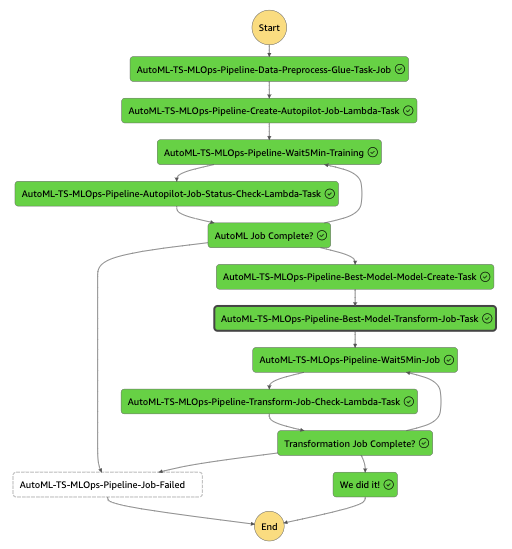
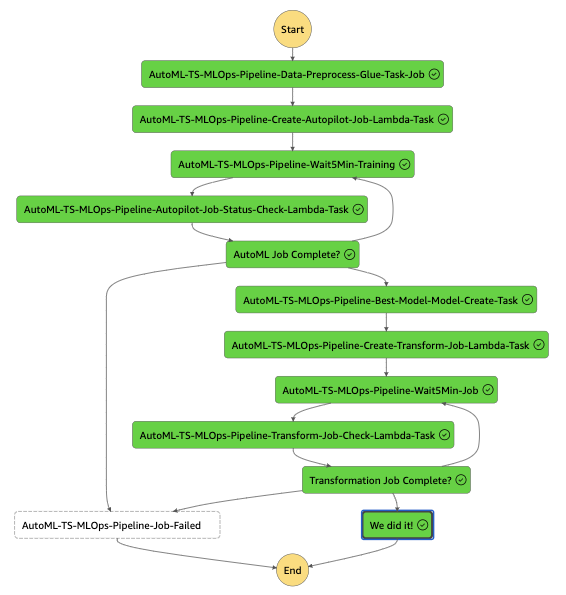
Final revision, removing unneccessary part, updating README

Changed region(s): [[0.0312, 0.0, 0.9688, 0.9909]]

diff --git a/lib/construct/state-machine.ts b/lib/construct/state-machine.ts
@@ -103,22 +103,13 @@ export class StateMachine extends Construct {
     
     // Waiting 5m before checking Autopilot Job Status
     const wait5minAfterTraining = new sfn.Wait(this, 'AutoML-TS-MLOps-Pipeline-Wait5Min-Training', {
-        time: sfn.WaitTime.duration(cdk.Duration.seconds(30))
+        time: sfn.WaitTime.duration(cdk.Duration.minutes(5))
     });
     
     // Waiting 5m before checking Autopilot Job Status
     const wait5minAfterJob = new sfn.Wait(this, 'AutoML-TS-MLOps-Pipeline-Wait5Min-Job', {
-        time: sfn.WaitTime.duration(cdk.Duration.seconds(30))
+        time: sfn.WaitTime.duration(cdk.Duration.minutes(5))
     });
-    
-    // Finish State Machine if job failed
-    const jobFailed = new sfn.Fail(this, 'AutoML-TS-MLOps-Pipeline-Job-Failed', {
-      cause: 'Autopilot MLOps Pipeline Job Failed',
-      error: 'Autopilot Train Job returned FAILED',
-    });
-    
-    // Temporary, for testing only
-    const success = new sfn.Succeed(this, 'We did it!');
     
     // Create a model from the Best trained model from AutoML
     const bestModel = new SageMakerConstruct(this, 'AutoML-TS-MLOps-Pipeline-Best-Model', {
@@ -138,6 +129,14 @@ export class StateMachine extends Construct {
        }
     });
     
+    // Finish State Machine if job failed
+    const jobFailed = new sfn.Fail(this, 'AutoML-TS-MLOps-Pipeline-Job-Failed', {
+      cause: 'Autopilot MLOps Pipeline Job Failed',
+      error: 'Autopilot Train Job returned FAILED',
+    });
+    
+    // Final Success State
+    const success = new sfn.Succeed(this, 'We did it!');
     
     // State Machine Definition
     const definition = preprocess.task

diff --git a/lib/construct/sagemaker.ts b/lib/construct/sagemaker.ts
@@ -1,10 +1,8 @@
 import {Construct} from 'constructs';
-import { Size } from 'aws-cdk-lib';
 import * as iam from 'aws-cdk-lib/aws-iam';
 import * as s3 from 'aws-cdk-lib/aws-s3';
 import * as sfn from 'aws-cdk-lib/aws-stepfunctions';
 import * as sfn_tasks from 'aws-cdk-lib/aws-stepfunctions-tasks';
-import * as ec2 from 'aws-cdk-lib/aws-ec2';
 
 export interface SageMakerConstructProps {
     taskName: string,

diff --git a/README.md b/README.md
@@ -50,7 +50,8 @@ Implemented in Lambda Function with Step Functions loop process. Step Functions 
 Implemented as direct call of SageMaker APIs from Step Functions task to create an AI Model using the best performing trained model from SageMaker Autopilot Training.
 
 ### Batch Transform Job
-Implemented as direct call of SageMaker APIs from Step Functions task to create a Batch Transform Job using the model defined in "Create Model" step. The results are going to be stored in the same Resource Bucket created by CDK, but in the folder __TransformJobOutputPath/__.
+Implemented in Lambda Function. Using Dynamic Config file for Batch Transform Job, so it can be adjusted on the fly based on training data. Lambda Function calls SageMaker API [CreateTransformJob](https://docs.aws.amazon.com/sagemaker/latest/APIReference/API_CreateTransformJob.html) using config file provided in S3 bucket.
+Sample Config file is provided in __sample-data/batch_transform_job_config.json__ which you can re-use and adjust to your needs.
 
 ### Batch Transform Job Check
 Implemented as a Lambda with Step Functions loop process. Step Function does a loop and each 5 minutes runs Lambda Function which checks the status of created Batch Transform Job from previous step. Lambda is used as there is no direct integration from Step Functions tasks with SageMaker API [DescribeTransformJob](https://docs.aws.amazon.com/sagemaker/latest/APIReference/API_DescribeTransformJob.html).
@@ -91,6 +92,10 @@ As your data might be very different from provided synthetic data, the solution 
 > You must upload `automl_problem_config.json` file to the Resource S3 Bucket created by CDK with no prefix __BEFORE__ you will upload `data.zip` file into `raw/`, so the process won't fail as there will be missing Problem Configuration for SageMaker Autopilot for Time Series.
 > Example of `automl_problem_config.json` file is available in `sample-data` folder in this solution.
 
+> **Warning**
+> You must upload `batch_transform_job_config.json` file to the Resource S3 Bucket created by CDK with no prefix __BEFORE__ you will upload `data.zip` file into `raw/`, so the process won't fail as there will be missing Batch Transform Job Configuration used for SageMaker API.
+> Example of `batch_transform_job_config.json` file is available in `sample-data` folder in this solution.
+
 ### Upload to Launch
 
 Finally, you are ready to launch the pipeline. After you deploy this pipeline,
@@ -100,6 +105,12 @@ First - upload your `automl_problem_config.json` file the newly created S3 Bucke
 
 ```bash
 aws s3 cp automl_problem_config.json s3://automl-ts-mlops-pipeline-resource-bucket-{YOUR-12DIGIT-AWS-ACCOUNT-ID}
+```
+
+Then - upload your `batch_transform_job_config.json` to the same S3 Bucket (Resource Bucket) with no prefix as well.
+
+```bash
+aws s3 cp batch_transform_job_config.json s3://automl-ts-mlops-pipeline-resource-bucket-{YOUR-12DIGIT-AWS-ACCOUNT-ID}
 ```
 
 Now, You have to upload your on data.zip file to __raw/__ directory in the same bucket.
@@ -119,11 +130,12 @@ Navigate to the StepFunctions console to monitor the excecution. You will see th
 When the steps are completed, the __Resource Bucket__ will have the following structure:
 
 ```bash
-raw/                        # Where you uploaded the raw dataset
-input/                      # Where preprocessed csv file is stored
-autopilot-output/           # Where experiment models artifacts created by SageMaker Autopilot are stored
-output-forecasted-data/     # Where final csv file with predictions using AIML model is stored
-automl_problem_config.json  # Sagemaker Autopilot Problem Configuration file 
+raw/                                # Where you uploaded the raw dataset
+input/                              # Where preprocessed csv file is stored
+autopilot-output/                   # Where experiment models artifacts created by SageMaker Autopilot are stored
+output-forecasted-data/             # Where final csv file with predictions using AIML model is stored
+automl_problem_config.json          # Sagemaker Autopilot Problem Configuration file 
+batch_transform_job_config.json     # Sagemaker Batch Transform Job Configuration file 
 ```
 
 
